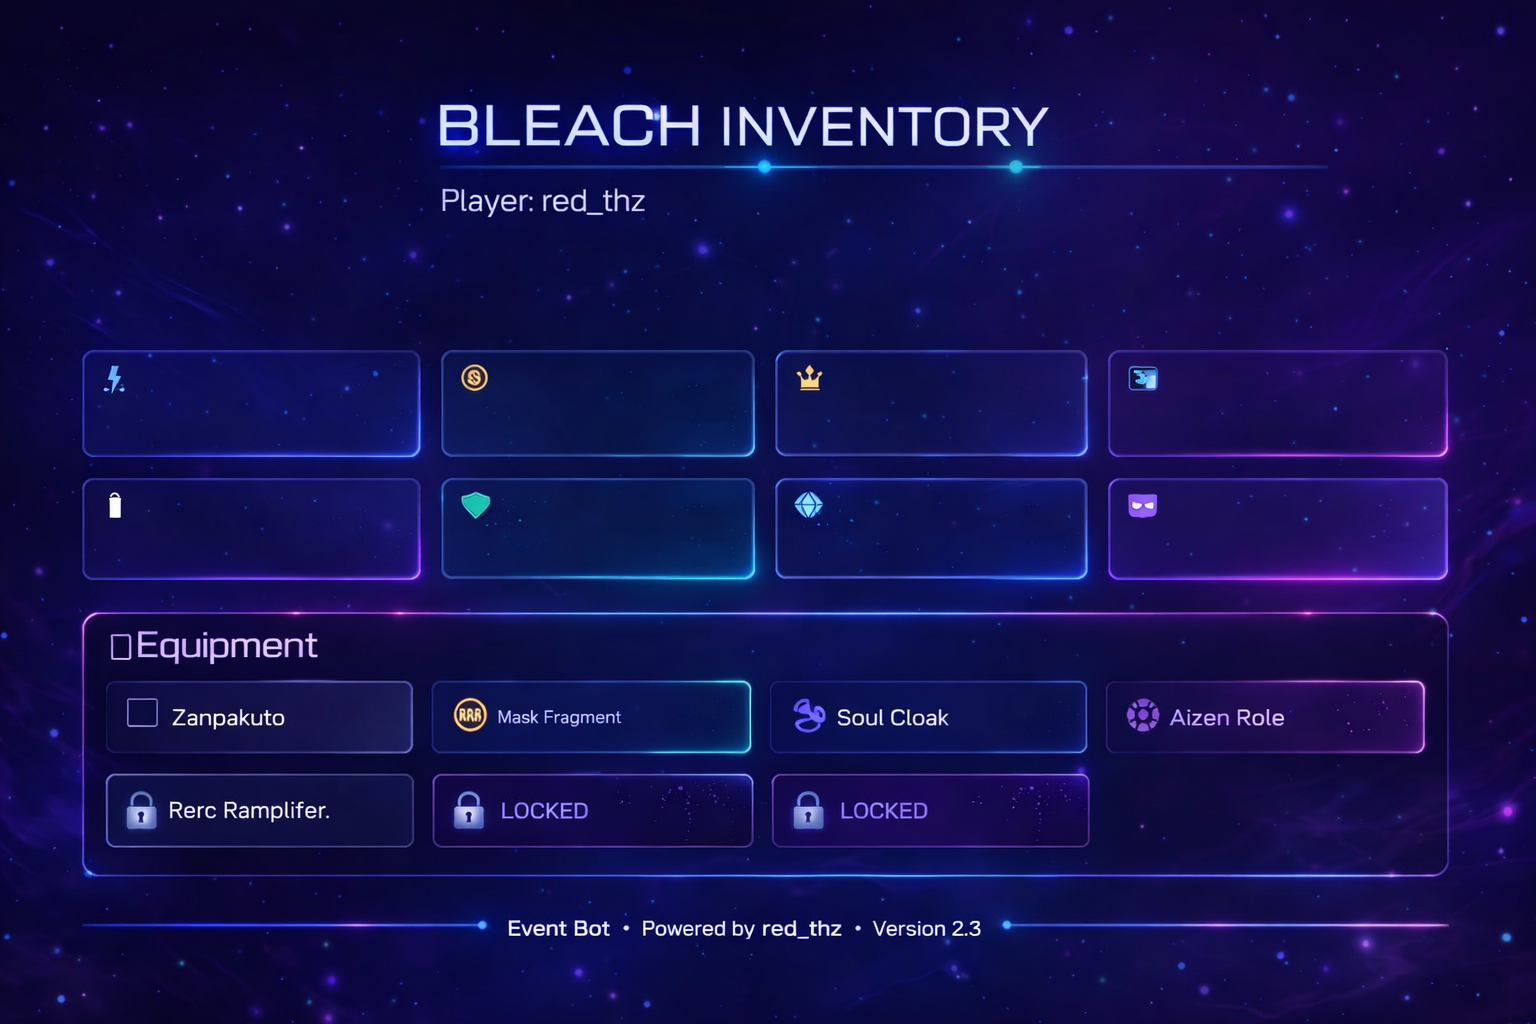
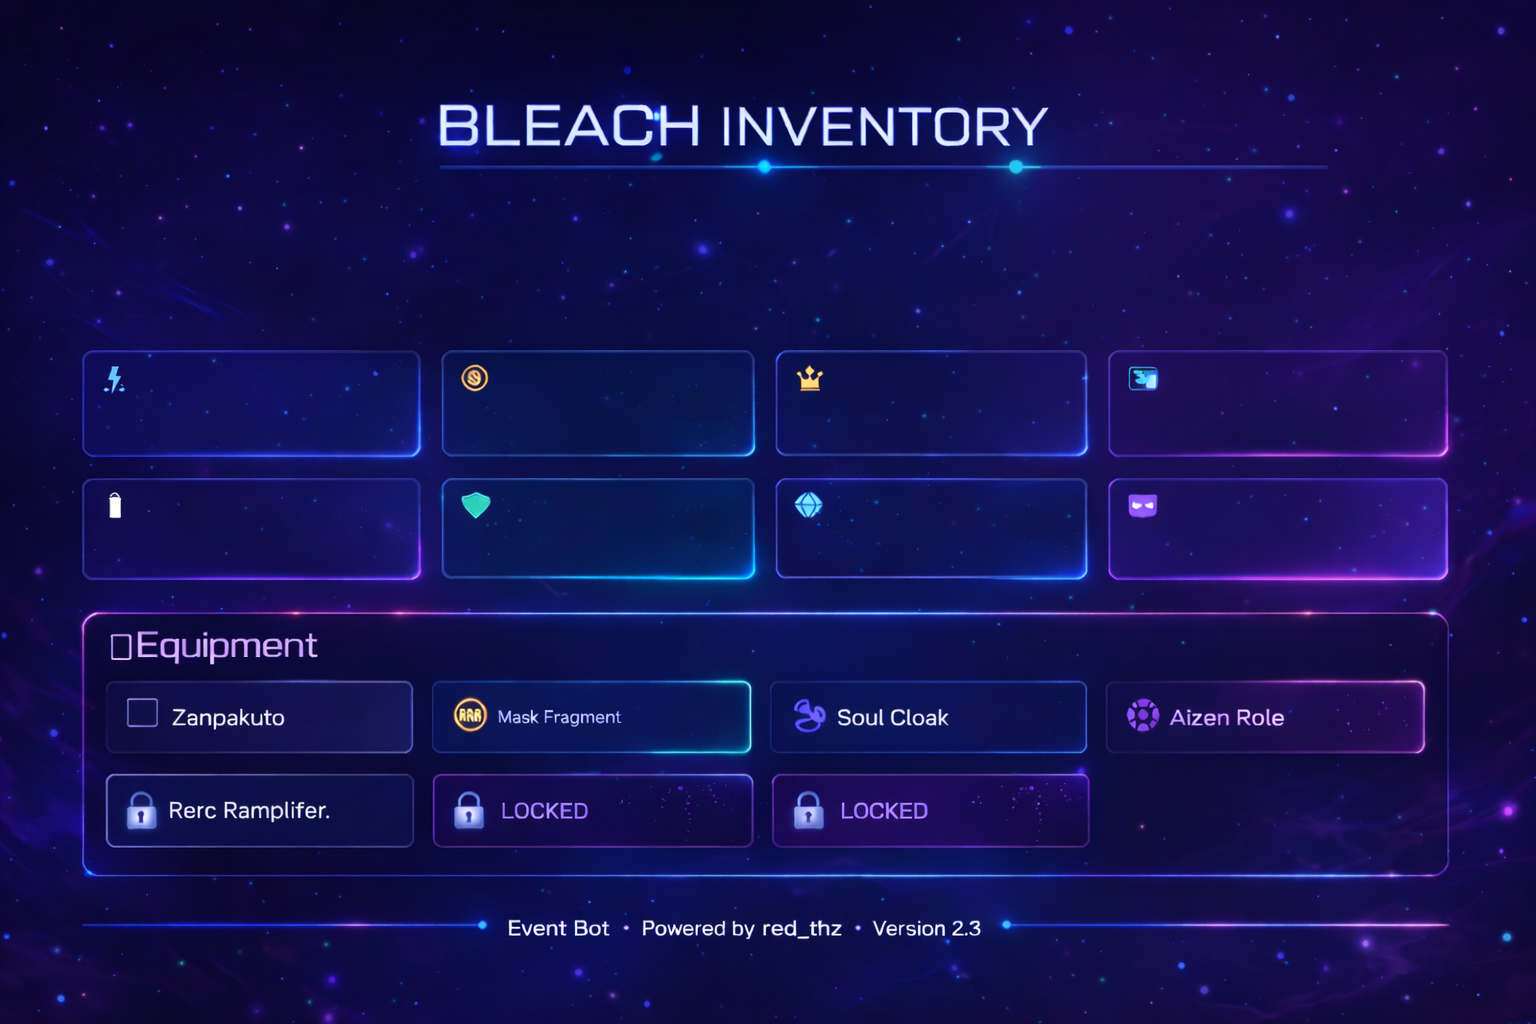
fix: align inventory template values and switch to blue-pink gradient text

diff --git a/src/ui/inventory-card.js b/src/ui/inventory-card.js
@@ -151,6 +151,14 @@ function loadLayout() {
   }
 }
 
+function bluePinkGradient(ctx, x, y, text) {
+  const w = Math.max(60, ctx.measureText(String(text)).width);
+  const g = ctx.createLinearGradient(x, y, x + w, y);
+  g.addColorStop(0, "#22d3ee");
+  g.addColorStop(1, "#e879f9");
+  return g;
+}
+
 async function drawTemplateBackground(ctx, layout, eventKey) {
   const fileName = eventKey === "bleach" ? layout.templates.bleach : layout.templates.jjk;
   const full = path.join(TEMPLATE_DIR, fileName);
@@ -283,10 +291,12 @@ async function buildInventoryImage(eventKey, player, user, bonusMaxBleach = 30, 
 
   const data = resolveValueMap(eventKey, player, bonusMaxBleach, bonusMaxJjk);
 
-  ctx.fillStyle = layout.colors.textSub;
+  // Draw only dynamic values (template contains static labels)
   ctx.font = layout.fonts.subtitle;
-  ctx.fillText(`Player: ${username}`, layout.points.player.x, layout.points.player.y);
-  ctx.fillText(`Combat Power: ${data.map.power}`, layout.points.combatPower.x, layout.points.combatPower.y);
+  ctx.fillStyle = bluePinkGradient(ctx, layout.points.player.x, layout.points.player.y, username);
+  ctx.fillText(username, layout.points.player.x, layout.points.player.y);
+  ctx.fillStyle = bluePinkGradient(ctx, layout.points.combatPower.x, layout.points.combatPower.y, data.map.power);
+  ctx.fillText(data.map.power, layout.points.combatPower.x, layout.points.combatPower.y);
 
   for (let i = 0; i < layout.stats.length; i++) {
     const stat = layout.stats[i];
@@ -294,12 +304,12 @@ async function buildInventoryImage(eventKey, player, user, bonusMaxBleach = 30, 
     const boxW = isLast ? layout.statBox.lastW : layout.statBox.w;
     const value = data.map[stat.key] ?? "-";
 
-    ctx.fillStyle = layout.colors.textMain;
     ctx.font = layout.fonts.statValue;
     const text = String(value);
     const maxW = boxW - 24;
     let draw = text;
     while (ctx.measureText(draw).width > maxW && draw.length > 1) draw = draw.slice(0, -1);
+    ctx.fillStyle = bluePinkGradient(ctx, stat.x + layout.statBox.valueDx, stat.y + layout.statBox.valueDy, draw);
     ctx.fillText(draw, stat.x + layout.statBox.valueDx, stat.y + layout.statBox.valueDy);
   }
 
@@ -309,7 +319,7 @@ async function buildInventoryImage(eventKey, player, user, bonusMaxBleach = 30, 
     const src = data.slots[i];
 
     const mark = src.own ? "✓" : "✗";
-    ctx.fillStyle = src.own ? "#86efac" : "#fda4af";
+    ctx.fillStyle = src.own ? "#22d3ee" : "#f472b6";
     ctx.font = '700 44px "Orbitron", "Inter", "Segoe UI", sans-serif';
     ctx.fillText(mark, s.x + 20, s.y + 58);
   }
